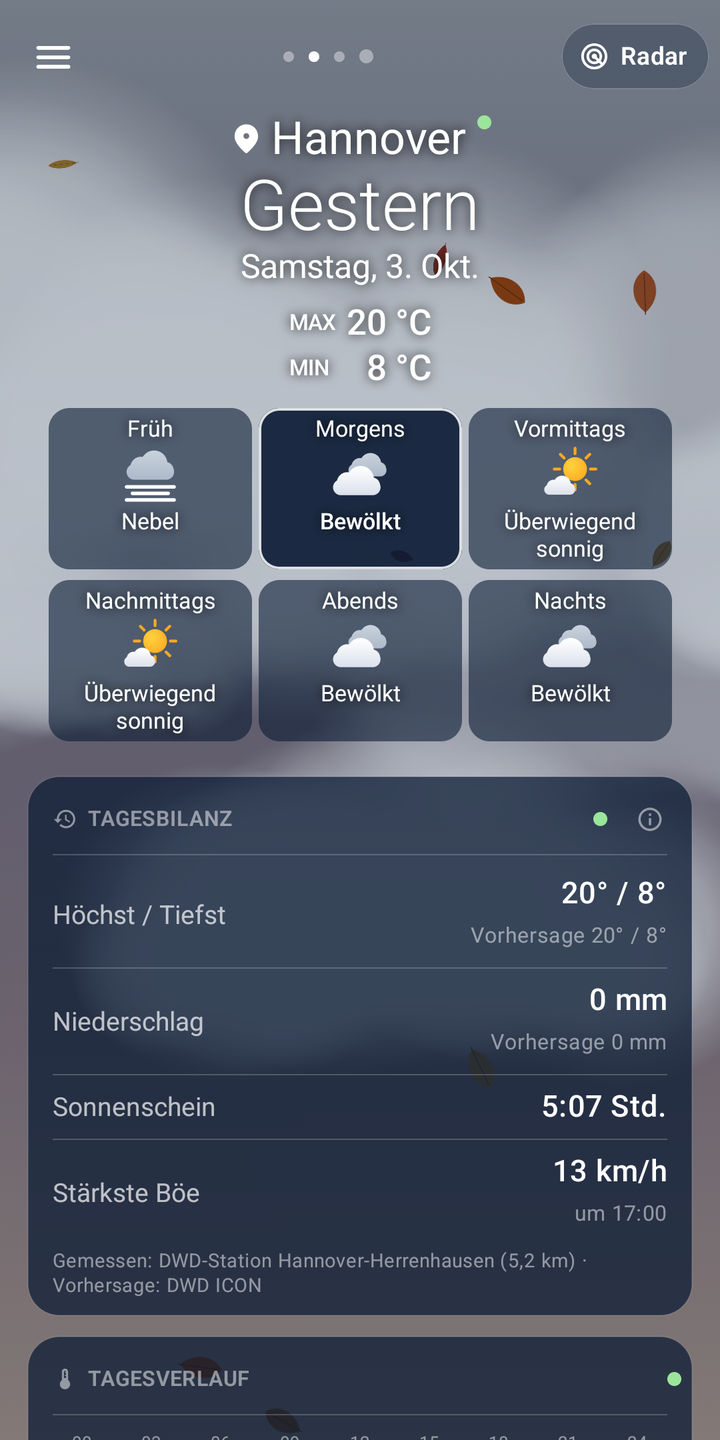
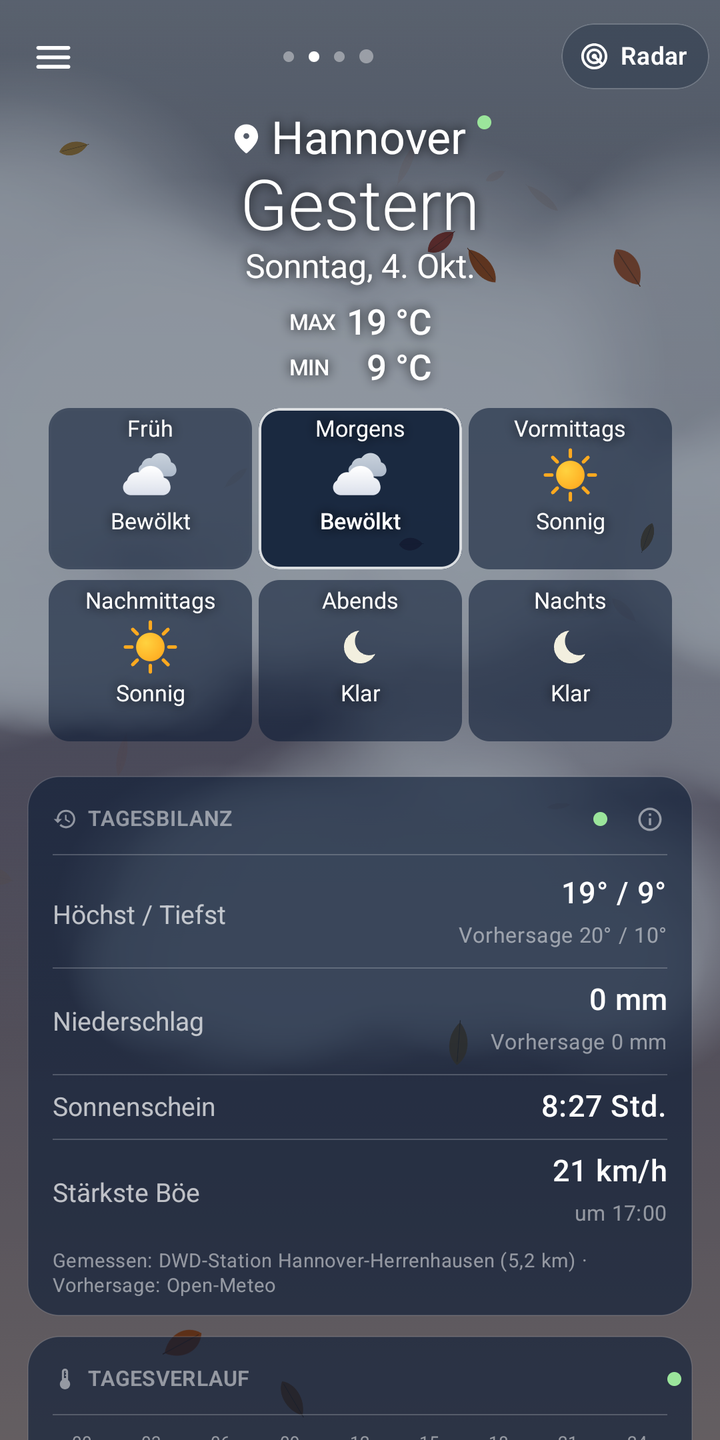
New screenshots for the docs and the store, in German and English
- docs/screenshots (de) and docs/screenshots/en: weather page,
  meteogram, look-back, sun, radar (temperature and wind) with Hannover
  on 5 Oct. 2026, 1.34.1; new: the sources of the values now
  (station.png, in docs/STATIONS) and the model choice of a place
  (models.png, in docs/MODELS)
- README.en.md shows the English screenshots
- store screenshots (de-DE, en-US) taken anew, the two new ones added
- REUSE: the English screenshots; KNMI among the radar data

diff --git a/README.en.md b/README.en.md
@@ -32,13 +32,13 @@ the DWD and the KNMI. No ads, no account, no Google services. The app speaks Eng
 
 <table>
   <tr>
-    <td align="center" width="33%"><img src="docs/screenshots/main.png" width="240" alt="Weather page"><br><sub><b>Weather page</b><br>readings of the nearest weather station, outlook, hourly and 10 days</sub></td>
-    <td align="center" width="33%"><img src="docs/screenshots/meteogram.png" width="240" alt="Meteogram"><br><sub><b>Meteogram</b><br>temperature, rain, sunshine and wind per hour, with a slider</sub></td>
-    <td align="center" width="33%"><img src="docs/screenshots/history.png" width="240" alt="Look back"><br><sub><b>Look back</b><br>measured versus forecast – just swipe right</sub></td>
+    <td align="center" width="33%"><img src="docs/screenshots/en/main.png" width="240" alt="Weather page"><br><sub><b>Weather page</b><br>readings of the nearest weather station, outlook, hourly and 10 days</sub></td>
+    <td align="center" width="33%"><img src="docs/screenshots/en/meteogram.png" width="240" alt="Meteogram"><br><sub><b>Meteogram</b><br>temperature, rain, sunshine and wind per hour, with a slider</sub></td>
+    <td align="center" width="33%"><img src="docs/screenshots/en/history.png" width="240" alt="Look back"><br><sub><b>Look back</b><br>measured versus forecast – just swipe right</sub></td>
   </tr>
   <tr>
-    <td align="center"><img src="docs/screenshots/radar.png" width="240" alt="Rain radar"><br><sub><b>Rain radar</b><br>DWD radar with nowcast, temperature and wind layers</sub></td>
-    <td align="center"><img src="docs/screenshots/sun.png" width="240" alt="Sun and moon"><br><sub><b>Sun and moon</b><br>sun arc with golden and blue hour, moon phase</sub></td>
+    <td align="center"><img src="docs/screenshots/en/radar.png" width="240" alt="Rain radar"><br><sub><b>Rain radar</b><br>DWD radar with nowcast, temperature and wind layers</sub></td>
+    <td align="center"><img src="docs/screenshots/en/sun.png" width="240" alt="Sun and moon"><br><sub><b>Sun and moon</b><br>sun arc with golden and blue hour, moon phase</sub></td>
     <td align="center" valign="middle">
       <b>Download</b><br><br>
       <a href="https://github.com/schnebeck/nimbus-weather/releases/latest">Latest release (APK)</a><br><br>

diff --git a/docs/MODELS.md b/docs/MODELS.md
@@ -60,6 +60,8 @@ In der Ortsliste (lange drücken, dann auf „Modell: …“ tippen) wählt man 
 - **Eigenes Modell für diesen Ort** – darunter klappt die Liste der Modelle auf; vorgewählt ist das
   Modell, das gerade gilt. Erst der Tipp auf ein Modell legt den Ort fest.
 
+<p align="center"><img src="screenshots/models.png" width="300" alt="Vorhersagemodell für einen Ort: App-Einstellung oder eigenes Modell"></p>
+
 „Mein Standort“ wandert und nimmt immer das Modell aus den Einstellungen.
 
 **Derselbe Ort mehrfach:** ⧉ im Bearbeiten-Modus legt einen Ort ein weiteres Mal an und öffnet

diff --git a/docs/MODELS.en.md b/docs/MODELS.en.md
@@ -59,6 +59,8 @@ In the list of places (long press, then tap "Model: …") each place first gets 
 - **A model of its own for this place** – the list of models unfolds beneath it, the model in force
   marked. Only tapping a model fixes it for the place.
 
+<p align="center"><img src="screenshots/en/models.png" width="300" alt="Forecast model of a place: the app setting or a model of its own"></p>
+
 "My location" moves and always takes the model of the settings.
 
 **The same place more than once:** ⧉ in the edit mode adds a place once more and opens its model

diff --git a/docs/STATIONS.en.md b/docs/STATIONS.en.md
@@ -26,6 +26,8 @@ weather page shows the values of the nearest weather station instead of the mode
 The note "Measured at DWD station Norderney (13.5 km)" names the station of the temperature; its ⓘ
 lists for each value whether it was measured (and at which station) or comes from the model.
 
+<p align="center"><img src="screenshots/en/station.png" width="300" alt="Source of the values: measured at the station or from the model"></p>
+
 ## Networks
 
 | Area | Network | Interval | Values | Licence |

diff --git a/docs/STATIONS.md b/docs/STATIONS.md
@@ -26,6 +26,8 @@ oben die Werte der nächsten Wetterstation statt der Modellwerte für den Ort. D
 „Gemessen an DWD-Station Norderney (13,5 km)“ nennt die Station der Temperatur; ⓘ daran listet für
 jeden Wert, ob er gemessen ist (und an welcher Station) oder vom Modell kommt.
 
+<p align="center"><img src="screenshots/station.png" width="300" alt="Herkunft der Werte: gemessen an der Station oder vom Modell"></p>
+
 ## Netze
 
 | Gebiet | Netz | Takt | Messwerte | Lizenz |
